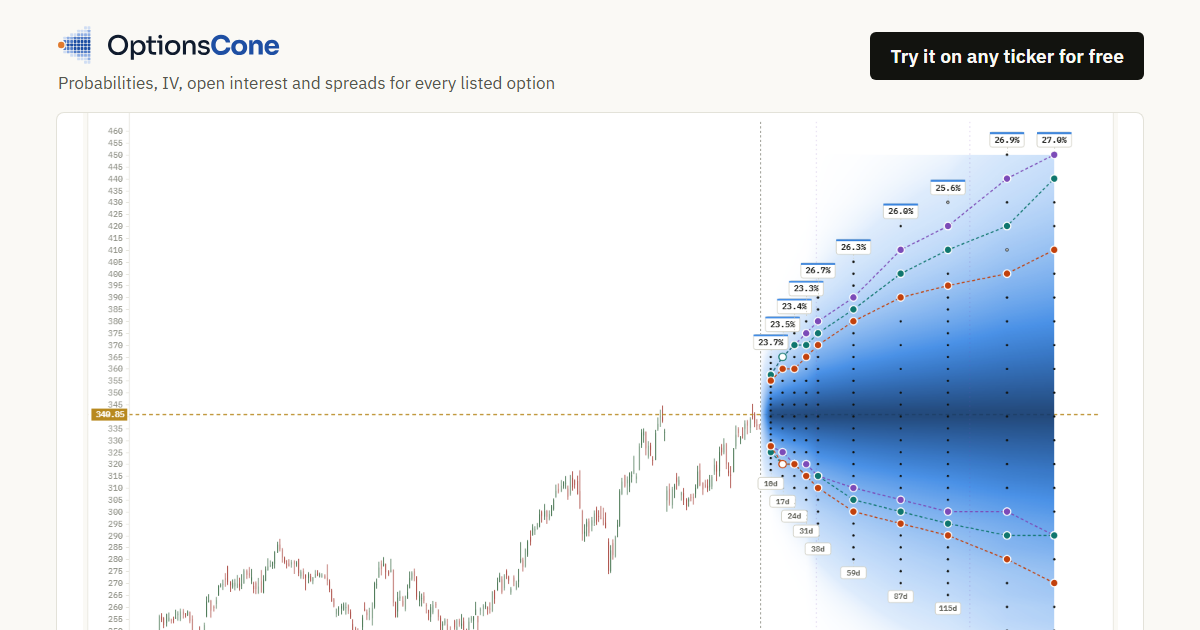
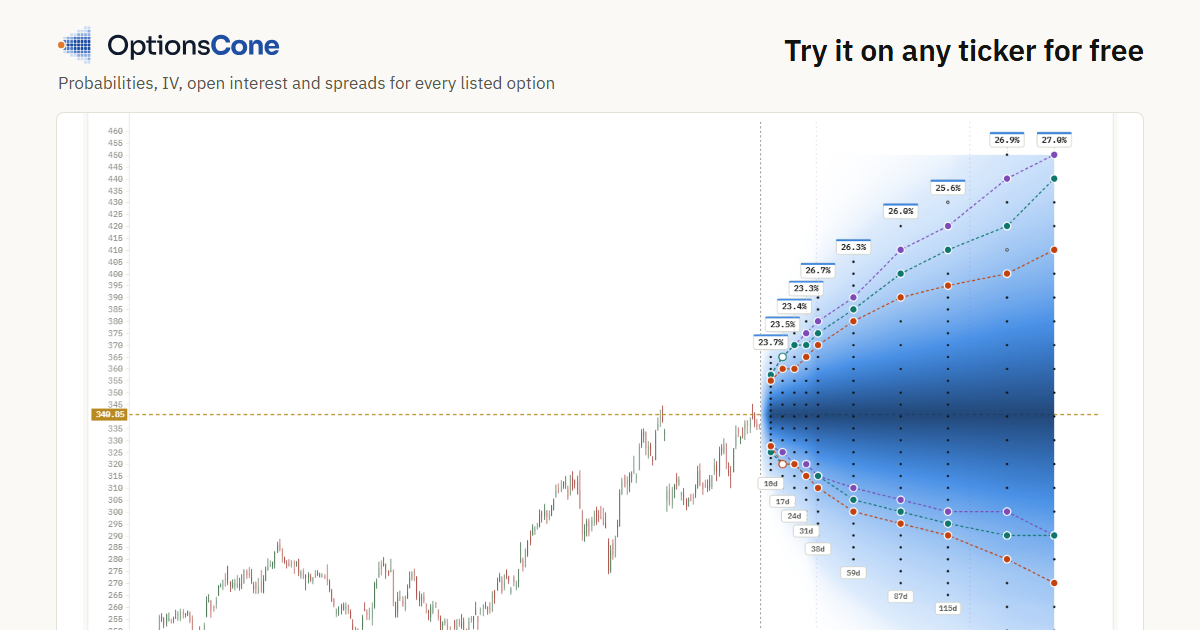
Put the invitation into the preview image and restore the preview title

Changed region(s): [[0.6475, 0.0302, 0.9558, 0.1508]]

diff --git a/docs/index.html b/docs/index.html
@@ -10,10 +10,10 @@
 <link rel="icon" href="brand/favicon-16.svg" type="image/svg+xml">
 <link rel="apple-touch-icon" href="brand/apple-touch-icon.png">
 <meta property="og:type" content="website">
-<meta property="og:title" content="OptionsCone: try it on any ticker for free">
+<meta property="og:title" content="OptionsCone: what the option market expects from your stock">
 <meta property="og:description" content="The full option chain on the price chart: probabilities, IV, open interest and spreads. Free and open source.">
 <meta property="og:url" content="https://nikkn.github.io/OptionsCone/">
-<meta property="og:image" content="https://nikkn.github.io/OptionsCone/img/social.png?v=2">
+<meta property="og:image" content="https://nikkn.github.io/OptionsCone/img/social.png?v=3">
 <meta property="og:image:width" content="1200">
 <meta property="og:image:height" content="630">
 <meta property="og:image:alt" content="OptionsCone: a probability cone over the listed option strikes of a stock, with implied and historical contour lines.">

diff --git a/docs/methods.html b/docs/methods.html
@@ -12,7 +12,7 @@
 <meta property="og:title" content="How OptionsCone calculates touch and expiry probabilities">
 <meta property="og:description" content="American binomial IV, the first-passage formula, delta vs. N(d2) and a block bootstrap with intraday highs and lows.">
 <meta property="og:url" content="https://nikkn.github.io/OptionsCone/methods.html">
-<meta property="og:image" content="https://nikkn.github.io/OptionsCone/img/social.png?v=2">
+<meta property="og:image" content="https://nikkn.github.io/OptionsCone/img/social.png?v=3">
 <meta property="og:image:width" content="1200">
 <meta property="og:image:height" content="630">
 <meta property="og:image:alt" content="OptionsCone: a probability cone over the listed option strikes of a stock, with implied and historical contour lines.">

diff --git a/docs/use-cases.html b/docs/use-cases.html
@@ -12,7 +12,7 @@
 <meta property="og:title" content="What OptionsCone can tell you before and during a trade">
 <meta property="og:description" content="Stop loss odds, break-even, price targets and market vs. history, with real numbers.">
 <meta property="og:url" content="https://nikkn.github.io/OptionsCone/use-cases.html">
-<meta property="og:image" content="https://nikkn.github.io/OptionsCone/img/social.png?v=2">
+<meta property="og:image" content="https://nikkn.github.io/OptionsCone/img/social.png?v=3">
 <meta property="og:image:width" content="1200">
 <meta property="og:image:height" content="630">
 <meta property="og:image:alt" content="OptionsCone: a probability cone over the listed option strikes of a stock, with implied and historical contour lines.">

diff --git a/docs/manual.html b/docs/manual.html
@@ -12,7 +12,7 @@
 <meta property="og:title" content="OptionsCone manual">
 <meta property="og:description" content="Installing OptionsCone, reading the probability cone and using every control.">
 <meta property="og:url" content="https://nikkn.github.io/OptionsCone/manual.html">
-<meta property="og:image" content="https://nikkn.github.io/OptionsCone/img/social.png?v=2">
+<meta property="og:image" content="https://nikkn.github.io/OptionsCone/img/social.png?v=3">
 <meta property="og:image:width" content="1200">
 <meta property="og:image:height" content="630">
 <meta property="og:image:alt" content="OptionsCone: a probability cone over the listed option strikes of a stock, with implied and historical contour lines.">
